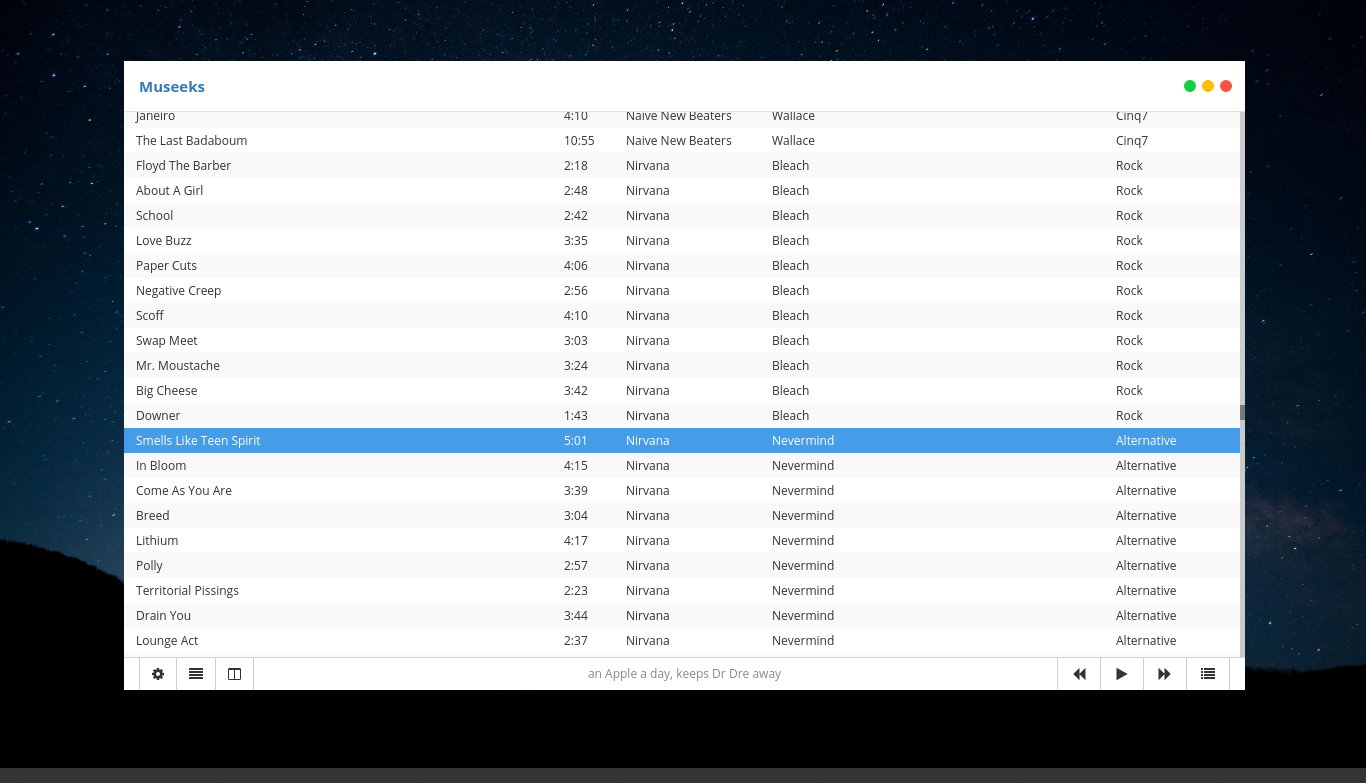
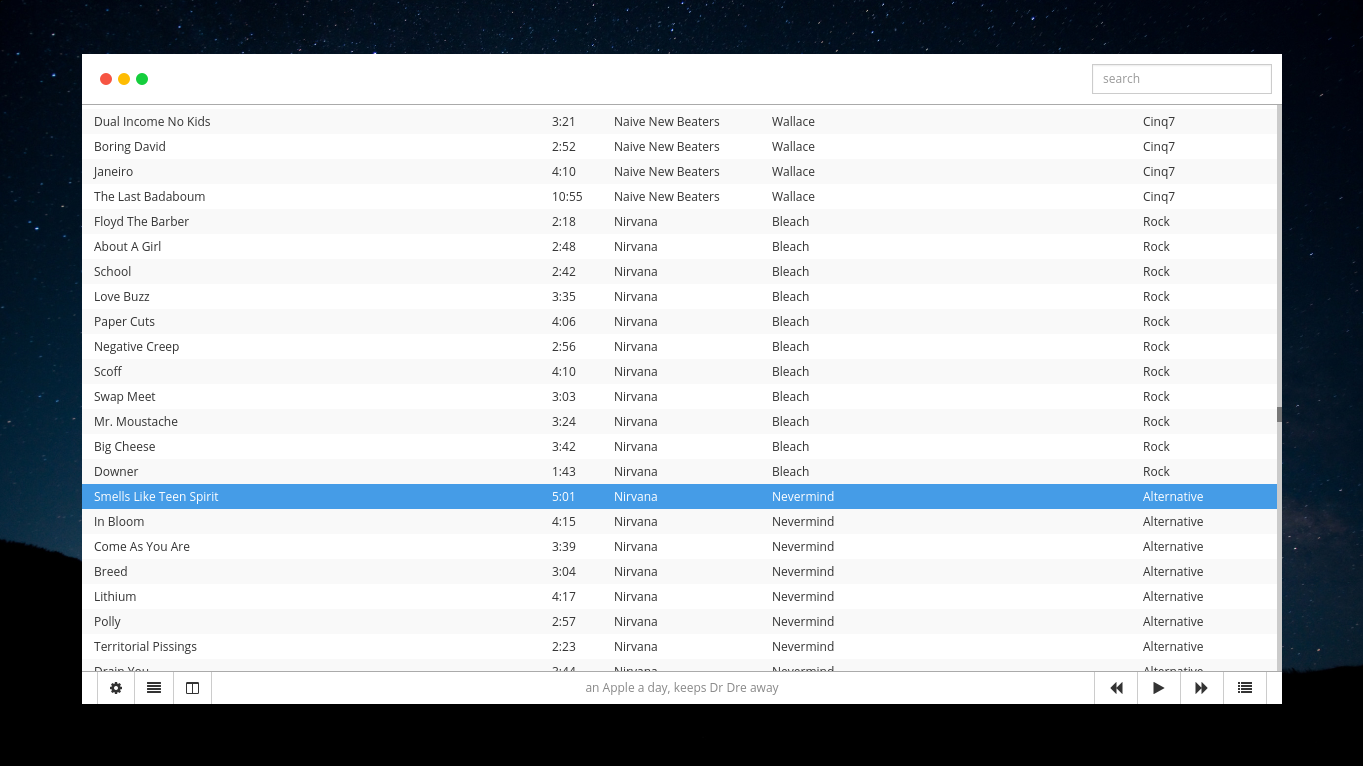
Another to-do update

Changed region(s): [[0.0, 0.0601, 1.0, 0.9308], [0.0, 0.9608, 1.0, 1.0]]

diff --git a/README.md b/README.md
@@ -17,11 +17,13 @@ It will use:
 
 ##### library view columns
 - [ ] display library by artist -> album -> tracks
+- [ ] search
 
 ##### library view list
 - [x] list all tracks
 - [ ] manage columns
 - [ ] resize columns
+- [x] search
 
 ##### others
 
